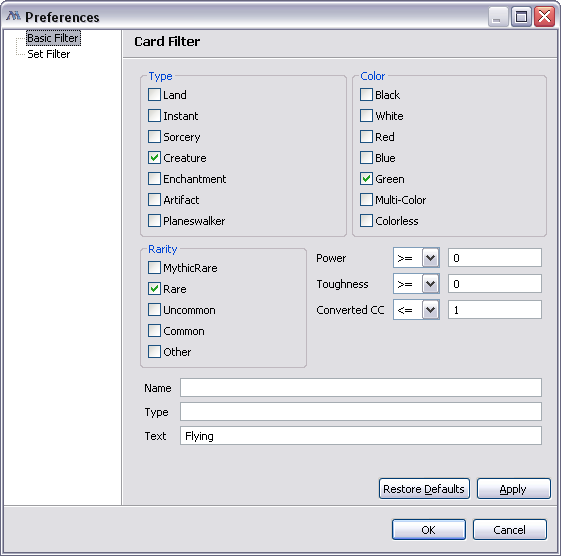
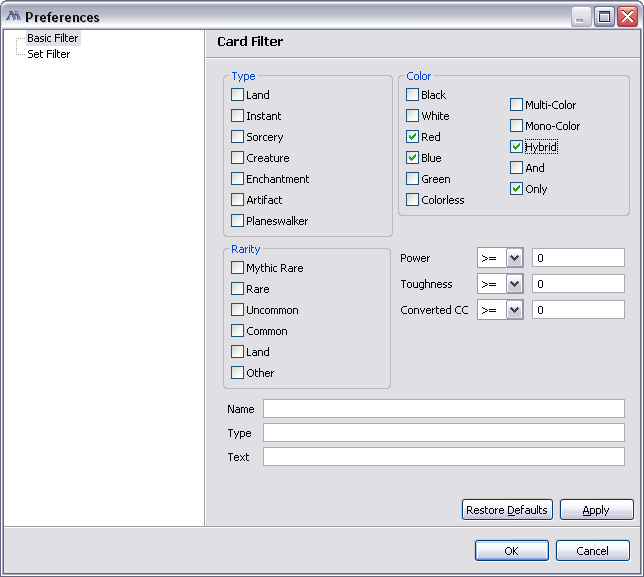
- added another filter option for colors filter and updated help

Changed region(s): [[0.0, 0.0, 1.0, 1.0]]

diff --git a/com.reflexit.magiccards.help/html/reference/filter_dialog.html b/com.reflexit.magiccards.help/html/reference/filter_dialog.html
@@ -15,14 +15,18 @@ Filter dialog has three page: Basic Filter, Sets Filter and Location filter (las
 
 <h3><a name="filterasic">Basic Filter</h3>
 Basic filter has several groups such as Color, Type, Rarity etc.
-Items that belong to the same group (such as Color) would be selected using logical OR. 
+Items that belong to the same group (such as Type) would be selected using logical OR. 
 Item that belong to different groups would be selected using logical AND.
+<p>
+Color group has two columns - basic colors, and color types and modifiers. Basic colors selected using OR,
+unless you check "And". If you check "Only" unchecked colors would be excluded. For example to select Red and Blue Hybrid cards
+you need to check Red, Blue, Hybrid and Only (If you don't select Only you will get all hybrids with Red or Blue, for example Blue/White).
 <p>
 <img src="../screenshots/dialogs/basic_filter.png" alt="basic filter dialog image"/>
 </p>
 <p/>
-For example if you select color Blue and White and Type Creature and Enchantment, 
-you will get all creates and all enchantments that are Blue or White (including multicolors).
+Another example: if you select color Blue and White and Type Creature and Enchantment, 
+you will get all creates and all enchantments that are Blue or White (including multicolored).
 <p/>
 Text search fields would split you text by words and search text using AND for all worlds you enter in the same line, disregarding order.
 Text search field provide content assist, i.e. they would show possible word you want to enter while you typing.
@@ -46,14 +50,16 @@ You can also search quoted text (will be searched as is including spaces), for e
 If you add "-" right before the word it would mean "not" for example "life -loose", means search for text "life" exclude ones with "loose" in it.
 By default text search is case insensitive, if you need case sensitive search or more advanced search you can use regular expressions.
 Regular expressions are recognised in text as m/expression/, for example m/Flying/ will search with Flying starting with capital F.
+Regular expressions are very powerful, google java regular expression for help on how to write them.
 
-
-<li>Example 1: Select all Green creatures with flying - Select Green in Color, Create in Type, and type "flying" in Text field</li>
-<li>Example 2: Select Artifact Creatures with cost 0 or 1 - Select Artifact in Type, type "Creature" in Type field, select &lt;= 1 in "Converted CC" field.  
-<li>Example 3: Select Creatures that can tap for mana - Select "Creature" in Type group, type "{T} mana pool" in Text field.  
-<li>Example 4: Look for only Flying creatures - Type "m/Flying/" in the text field, without quotes.
-<li>Example 5: Look for creates with no abilities - Select "Creature" in Type group, Type "m/^$/" in the text field, without quotes.
-
+<p/>
+<li>Example 1: Select all Green creatures with flying - Select Green in Color, Create in Type, and type <tt>flying</tt> in Text field</li>
+<li>Example 2: Select Artifact Creatures with cost 0 or 1 - Select Artifact in Type, type <tt>Creature</tt> in Type field, select &lt;= 1 in "Converted CC" field.  
+<li>Example 3: Select Creatures that can tap for mana - Select "Creature" in Type group, type <tt>{T} mana pool</tt> in Text field.  
+<li>Example 4: Look for only Flying creatures - Type <tt>m/Flying/</tt> in the text field.
+<li>Example 5: Look for creates with no abilities - Select "Creature" in Type group, Type <tt>m/^$/</tt> in the text field.
+<li>Example 6: Find cards with "destroy all" or "return all" in text - Enter <tt>m/([Dd]estroy|[Rr]eturn) all/</tt> in text search field</li>
+<li>Example 7: Find cards with ability to pull other cards from your graveyard - Type <tt>m/return .*from your graveyard/</tt> in text field</li>
 
 <h3><a name="filterset">Set Filter</a></h3>
 Set filter allows to select specific set in which cards should be shown.
